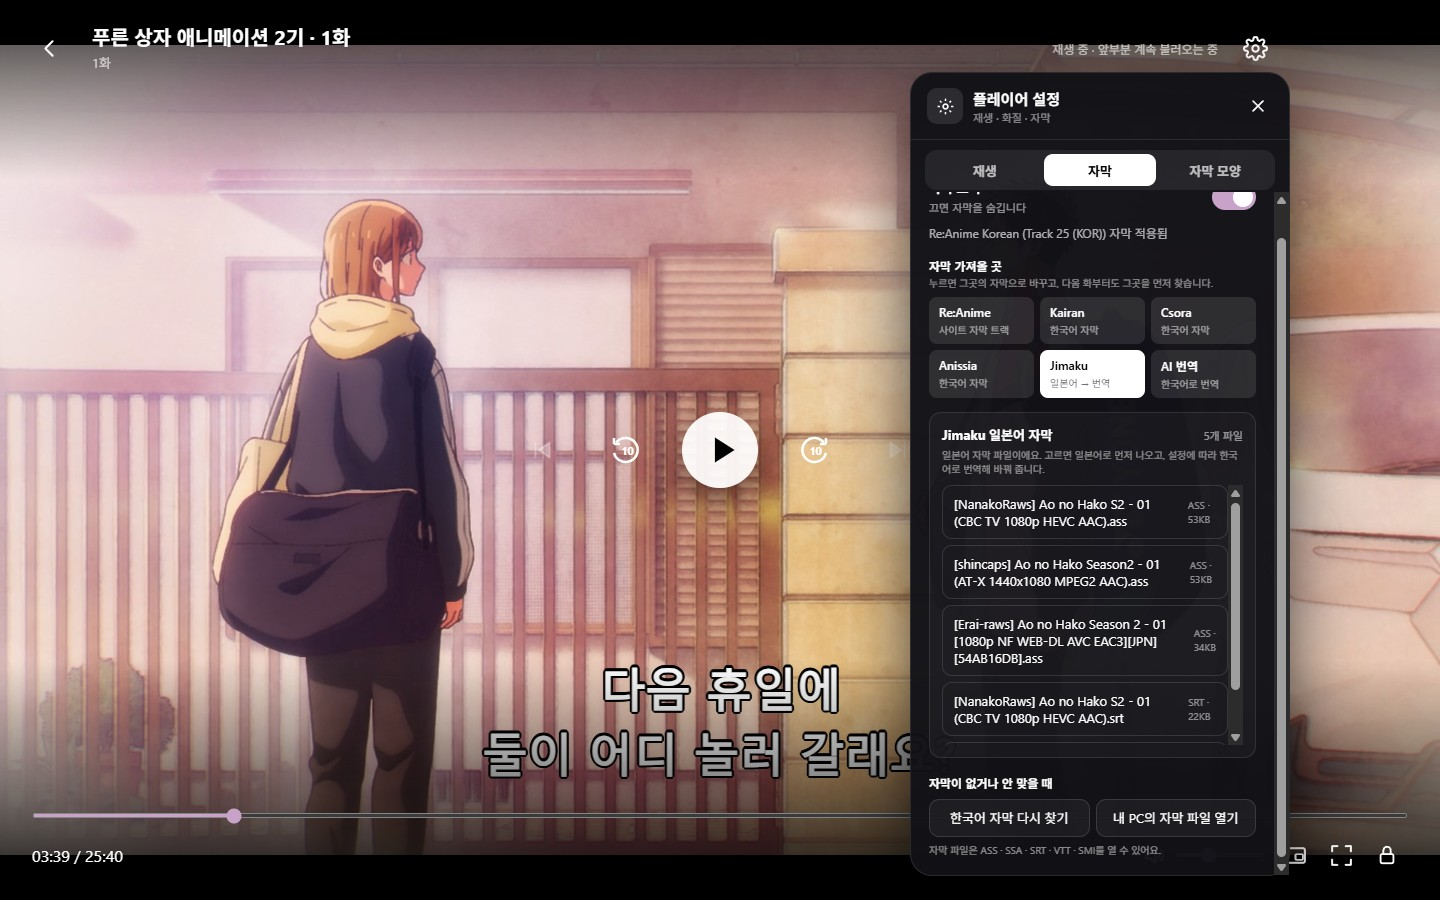
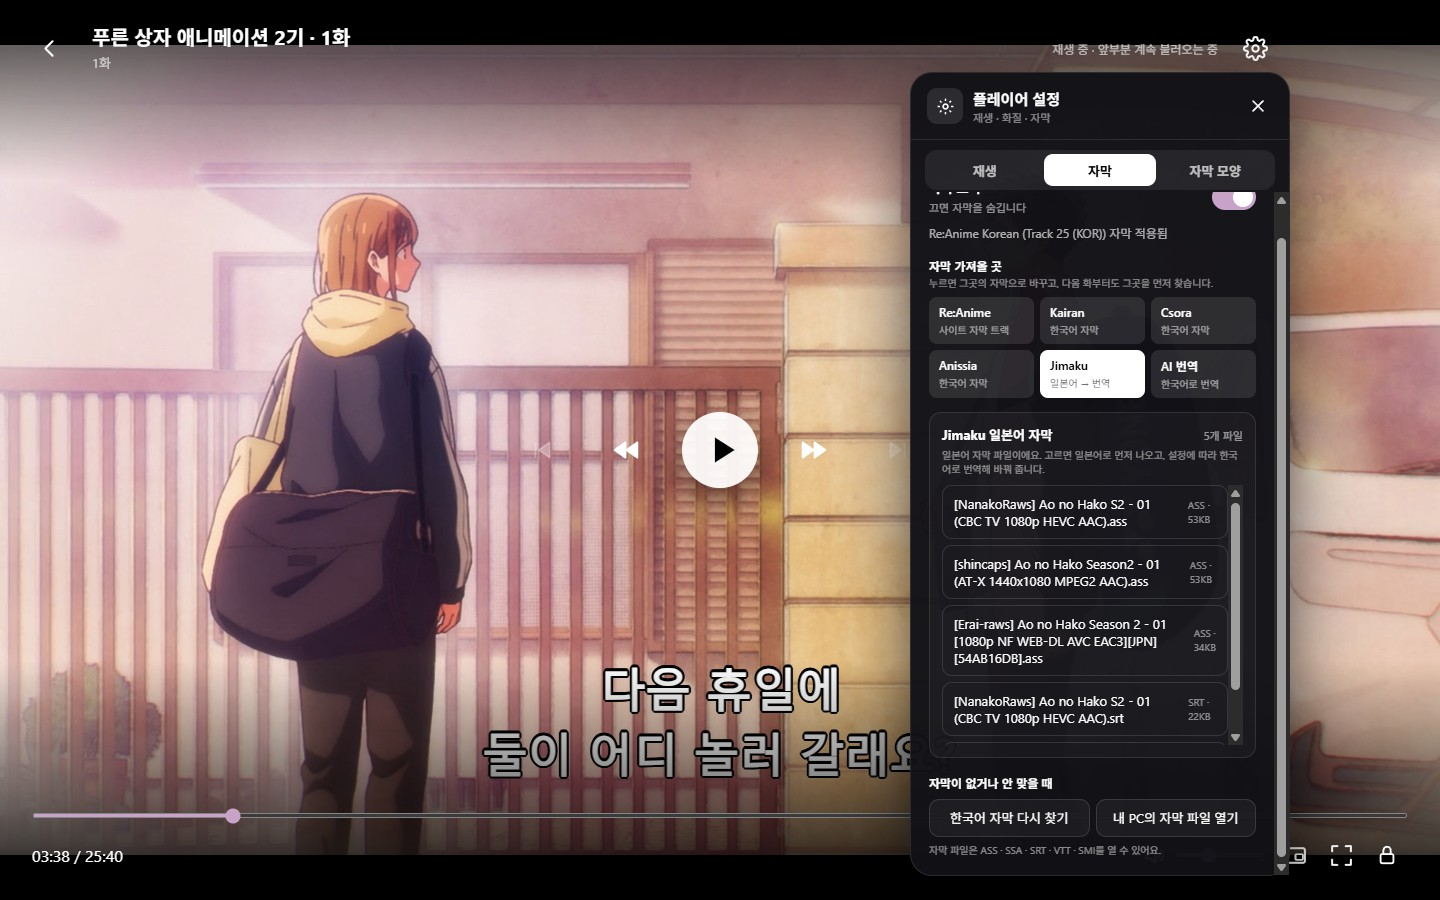
플레이어 앞뒤 이동 버튼을 숫자 없는 ◀◀ ▶▶ 아이콘으로 (이동 시간은 마우스를 올리면), README 플레이어 스크린샷 갱신

diff --git a/src/index.html b/src/index.html
@@ -100,9 +100,9 @@
           </header>
           <div class="player-center">
             <button id="previousEpisode" class="player-episode" aria-label="이전 화"><svg viewBox="0 0 24 24"><path d="M19 5 9 12l10 7ZM6 5v14"/></svg></button>
-            <button id="rewindPlayer" class="player-skip" aria-label="10초 뒤로"><svg viewBox="0 0 24 24"><path d="M4 8V4m0 4h4M5.5 7A8 8 0 1 1 4 14"/><text x="9" y="15">10</text></svg></button>
+            <button id="rewindPlayer" class="player-skip" aria-label="10초 뒤로" title="10초 뒤로"><svg viewBox="0 0 24 24"><path d="M11.5 6v12L3 12ZM21 6v12l-8.5-6Z"/></svg></button>
             <button id="togglePlayer" class="player-play" aria-label="재생"><svg class="play-shape" viewBox="0 0 24 24"><path d="m8 5 11 7-11 7Z"/></svg><svg class="pause-shape" viewBox="0 0 24 24"><path d="M8 5v14M16 5v14"/></svg></button>
-            <button id="forwardPlayer" class="player-skip" aria-label="10초 앞으로"><svg viewBox="0 0 24 24"><path d="M20 8V4m0 4h-4M18.5 7A8 8 0 1 0 20 14"/><text x="9" y="15">10</text></svg></button>
+            <button id="forwardPlayer" class="player-skip" aria-label="10초 앞으로" title="10초 앞으로"><svg viewBox="0 0 24 24"><path d="M3 6v12l8.5-6ZM12.5 6v12l8.5-6Z"/></svg></button>
             <button id="nextEpisode" class="player-episode" aria-label="다음 화"><svg viewBox="0 0 24 24"><path d="m5 5 10 7-10 7ZM18 5v14"/></svg></button>
           </div>
           <button id="skipNow" class="skip-chip hidden"><svg viewBox="0 0 24 24" aria-hidden="true"><path d="m5 5 9 7-9 7Zm10 0h3v14h-3Z"/></svg><span>OP 스킵</span></button>

diff --git a/src/app.js b/src/app.js
@@ -929,6 +929,8 @@ $('#mutePlayer').onclick=()=>{const video=$('#video'),wasMuted=video.muted||vide
 $('#playerVolume').oninput=e=>{const video=$('#video');video.volume=Number(e.target.value)/100;video.muted=video.volume===0;localStorage.setItem('playerVolume',String(video.volume));localStorage.setItem('playerMuted',String(video.muted));syncVolumeUI();showPlayerControls()};
 $('#video').addEventListener('volumechange',syncVolumeUI);
 $('#rewindPlayer').onclick=()=>{const seconds=Number(localStorage.getItem('seekSeconds')||10);$('#video').currentTime=Math.max(0,$('#video').currentTime-seconds)};
+// The skip buttons carry no number: the time they move by (설정 > 재생) is in their tooltip.
+for(const [id,way] of [['#rewindPlayer','뒤로'],['#forwardPlayer','앞으로']]){const button=$(id),label=()=>{button.title=`${Number(localStorage.getItem('seekSeconds')||10)}초 ${way}`;button.setAttribute('aria-label',button.title)};label();button.addEventListener('pointerenter',label);button.addEventListener('focus',label)}
 $('#forwardPlayer').onclick=()=>{const seconds=Number(localStorage.getItem('seekSeconds')||10);$('#video').currentTime=Math.min($('#video').duration||Infinity,$('#video').currentTime+seconds)};
 $('#playerSeek').oninput=e=>{const video=$('#video'),duration=playbackDuration();if(duration)video.currentTime=duration*Number(e.target.value)/1000};
 $('#fullscreenPlayer').onclick=async()=>{try{playerWindowFullscreen=!playerWindowFullscreen;setPlayerWindowed();await window.lilac.setPlayerFullscreen(playerWindowFullscreen)}catch(e){toast(`전체 화면 오류: ${e.message}`)}};

diff --git a/src/ott.css b/src/ott.css
@@ -190,7 +190,7 @@ body.light #homeView .hero-actions .primary{background:#1c1b1f;color:#fff}
 .player-episode:hover:not(:disabled),.player-skip:hover{background:#ffffff1f}
 .player-episode:disabled{background:transparent;color:#ffffff4d}
 .player-episode svg{width:26px;height:26px}
-.player-skip svg{width:36px;height:36px}
+.player-skip svg{width:30px;height:30px;fill:currentColor;stroke:currentColor;stroke-width:1.6;stroke-linejoin:round}
 .player-play{width:76px;height:76px}
 .player-play .play-shape{transform:translateX(2px)}
 .immersive-player:has(#playerEmpty:not(.hidden)) .player-center{visibility:hidden}
